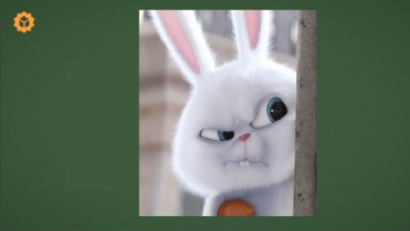
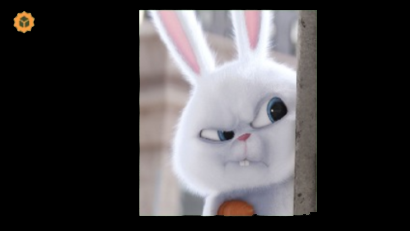
:lipstick: :construction: Updated styles:
- Added new image place holders, to see how the new style looks.
- Added gradient color background.
- Fixed Navbar style.

diff --git a/client/src/components/2d-models/ModelCardsContainer.js b/client/src/components/2d-models/ModelCardsContainer.js
@@ -1,5 +1,9 @@
 import ModelCard from "./model/ModelCard";
 import imagePlaceHolder from "../../assets/imagePlaceholder.PNG";
+import imagePlaceHolder2 from "../../assets/imagePlaceholder2.PNG";
+import imagePlaceHolder3 from "../../assets/imagePlaceholder3.PNG";
+import imagePlaceHolder4 from "../../assets/imagePlaceholder4.PNG";
+import imagePlaceHolder5 from "../../assets/imagePlaceholder5.PNG";
 
 import classes from "./ModelCardsContainer.module.css";
 
@@ -14,8 +18,8 @@ const DummyData = [
       user: "YusukeJoan"
    },
    {
-      imageSrc: imagePlaceHolder,
-      userImageSrc: imagePlaceHolder,
+      imageSrc: imagePlaceHolder2,
+      userImageSrc: imagePlaceHolder2,
       modelTitle: "Crazy Snowball running and jumping",
       viewsCount: 55,
       commentsCount: 5,
@@ -23,8 +27,8 @@ const DummyData = [
       user: "YusukeJoan"
    },
    {
-      imageSrc: imagePlaceHolder,
-      userImageSrc: imagePlaceHolder,
+      imageSrc: imagePlaceHolder3,
+      userImageSrc: imagePlaceHolder3,
       modelTitle: "Crazy Snowball barking",
       viewsCount: 0,
       commentsCount: 0,
@@ -32,8 +36,8 @@ const DummyData = [
       user: "YusukeJoan"
    },
    {
-      imageSrc: imagePlaceHolder,
-      userImageSrc: imagePlaceHolder,
+      imageSrc: imagePlaceHolder4,
+      userImageSrc: imagePlaceHolder4,
       modelTitle: "o.O this is not Snowball?",
       viewsCount: 44,
       commentsCount: 0,
@@ -41,8 +45,8 @@ const DummyData = [
       user: "YusukeJoan"
    },
    {
-      imageSrc: imagePlaceHolder,
-      userImageSrc: imagePlaceHolder,
+      imageSrc: imagePlaceHolder5,
+      userImageSrc: imagePlaceHolder5,
       modelTitle: "Snowball test",
       viewsCount: 7,
       commentsCount: 2,

diff --git a/client/src/components/navbar/NavBar.module.css b/client/src/components/navbar/NavBar.module.css
@@ -1,15 +1,15 @@
 .navbar {
    width: 100%;
    height: 5rem;
-   padding: 0 10%;
+   padding: 1rem 0;
    display: flex;
    align-items: center;
-   justify-content: space-between;
-   background-color: #000000;
+   justify-content: center;
+   background-color: #080808b0;
 }
 
 .navbar h1 {
-   color: orangered
+   color: #d7d7d7
 }
 
 .navbar ul {
@@ -18,5 +18,5 @@
 
 .navbar ul li {
    display: inline-block;
-   padding: 10px 10px;
+   padding: 10px 5px;
 }

diff --git a/client/src/components/2d-models/model/ModelCard.module.css b/client/src/components/2d-models/model/ModelCard.module.css
@@ -1,6 +1,10 @@
 .main{
-   background-color: white;
-   border-radius: 6px;
+   background: linear-gradient(
+      to right bottom,
+      rgba(97, 87, 255, 0.7),
+      rgba(97, 87, 255, 0.3)
+   );
+   border-radius: 3px;
 }
 
 .main img{
@@ -12,6 +16,8 @@
    display: flex;
    height: 36px;
    align-items: center;
+   margin: 5px;
+   color: #fff1f1;
 }
 
 .footer .left{

diff --git a/client/src/components/ui/Button.module.css b/client/src/components/ui/Button.module.css
@@ -1,6 +1,8 @@
 .button {
-   background-color: orange;
-   color: #000000;
+   background: black;
+   color: white;
+   border-radius: 2px;
+   min-width: 105px;
  }
  
  .button span {
@@ -9,7 +11,6 @@
 
 .button:hover,
 .button:active {
-   background-color: black;
-   color: orange;
+   background: linear-gradient(103deg,#6157ff,#7067ff,#6157ff);
    font-weight: bolder;
 }

diff --git a/client/src/index.css b/client/src/index.css
@@ -10,7 +10,11 @@ html {
 
 body {
   margin: 0;
-  background-color: #3f3f3f;
+  background: linear-gradient(
+      to top right,
+      rgba(0, 0, 0, 1),
+      rgba(0, 0, 0, 0.85)
+   );
 }
 
 button {

diff --git a/client/src/components/ui/Card.module.css b/client/src/components/ui/Card.module.css
@@ -1,6 +1,5 @@
 .card {
    margin: 1rem auto;
-   padding: 1rem;
-   width: 90%;
-   max-width: 40rem;
+   padding: 0rem;
+   width: 95%;
  }

diff --git a/client/src/components/homeContent/HomeContent.module.css b/client/src/components/homeContent/HomeContent.module.css
@@ -9,6 +9,7 @@
 
 .content {
    width: 60%;
+   color: whitesmoke;
 }
  
  .home-img{
